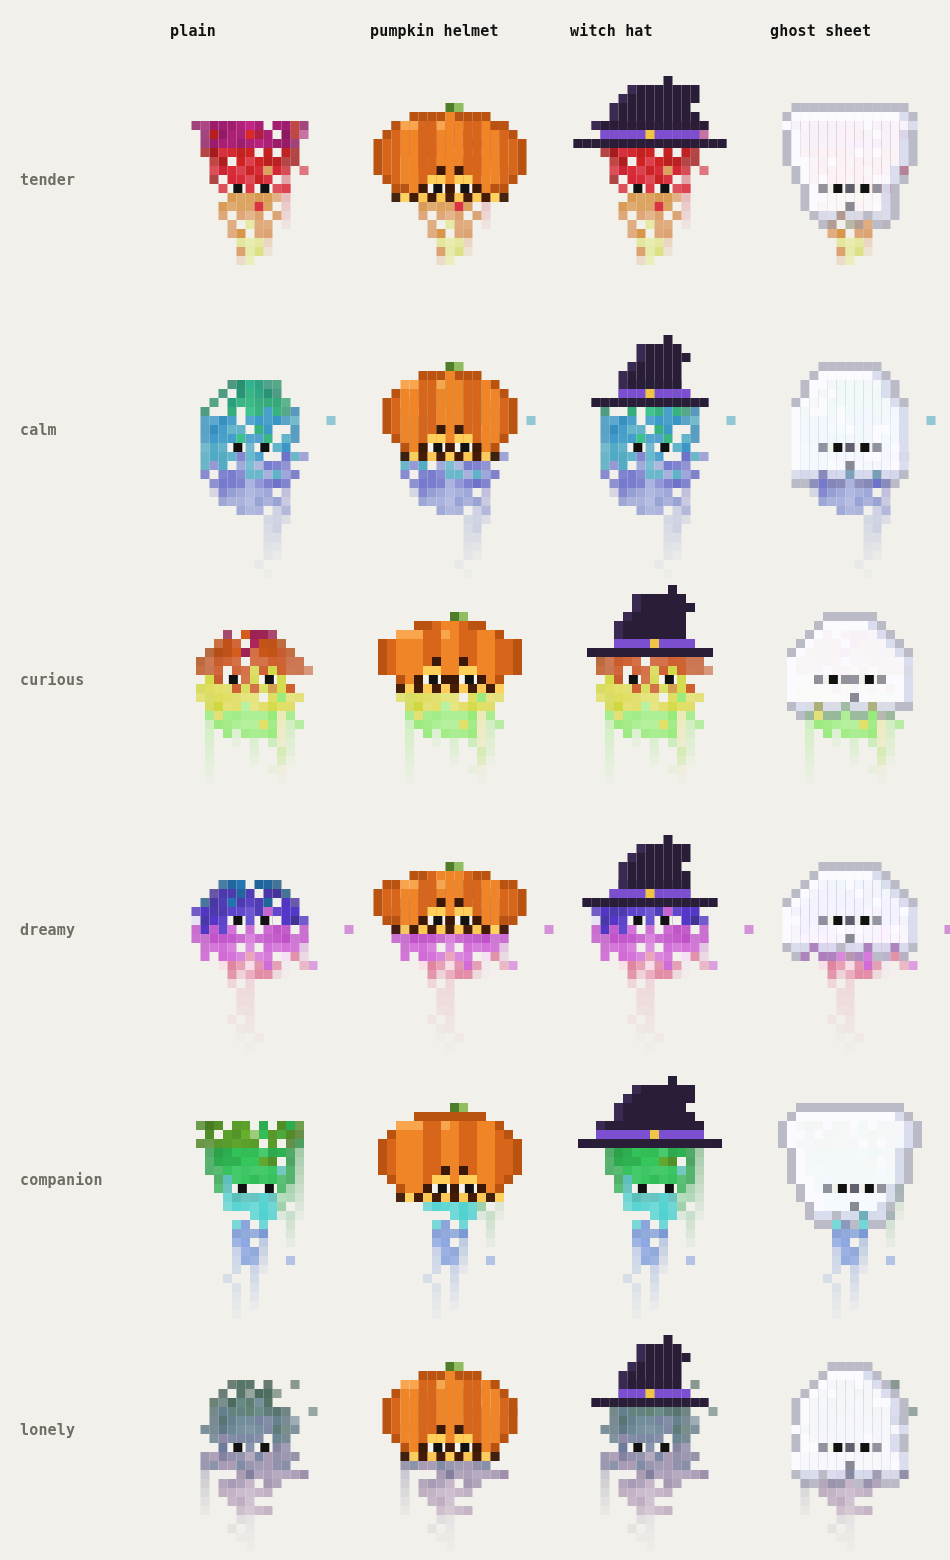
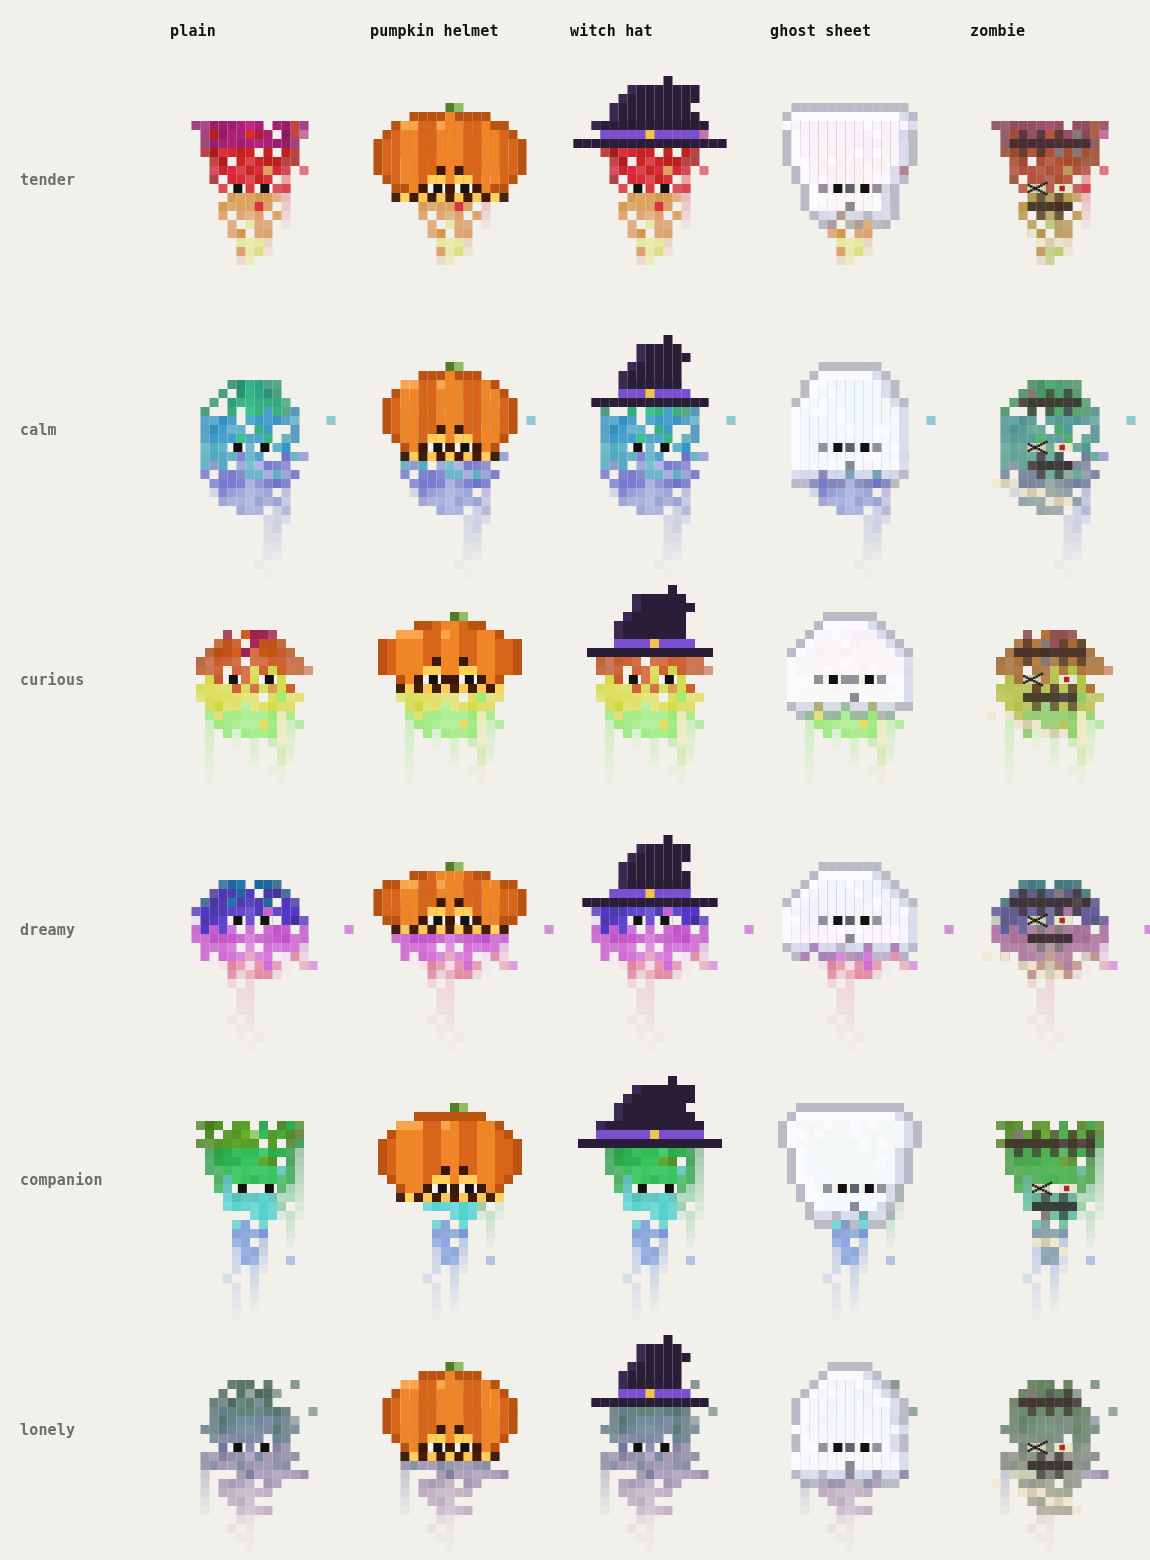
halloween: zombie costume (green skin, stitched scar, sewn eye, bandage) + zombie spells
Claude-Session: https://claude.ai/code/session_01F351BE8WNbsDJxZJegnrAN

diff --git a/src/core/halloween.ts b/src/core/halloween.ts
@@ -9,8 +9,8 @@
  */
 import type { MosaicSpec } from './mosaic';
 
-export type Costume = 'pumpkin' | 'witch' | 'ghost';
-export const COSTUMES: Costume[] = ['pumpkin', 'witch', 'ghost'];
+export type Costume = 'pumpkin' | 'witch' | 'ghost' | 'zombie';
+export const COSTUMES: Costume[] = ['pumpkin', 'witch', 'ghost', 'zombie'];
 
 /** rows a costume may reach above the spore's own grid (witch hat tip). */
 export const COSTUME_HEADROOM = 9;
@@ -41,6 +41,7 @@ const SPELLS: Array<[Costume, RegExp]> = [
   ['pumpkin', /pumpkin|jack[- ]?o[- ]?lantern|halloween|trick or treat|南瓜|万圣/i],
   ['ghost', /ghost|\bboo+\b|spook|haunt|鬼|幽灵|幽靈/i],
   ['witch', /witch|wizard|spell|cauldron|巫|魔女|女巫/i],
+  ['zombie', /zombie|undead|brains?\b|walking dead|僵尸|丧尸|殭屍|喪屍/i],
 ];
 /** The costume a whispered sentence asks for (only while the egg is on). */
 export function spellCostume(text: string | undefined | null): Costume | null {
@@ -217,6 +218,46 @@ export function drawCostume(g: G, spec: MosaicSpec, ox: number, oy: number, cell
       px(e0 - 1, er, '#2c2d3e', 0.5); px(e0 + 2, er, '#2c2d3e', 0.5);
     }
     px(Math.round(cx), er + 2, '#2c2d3e', 0.55);                      // tiny "o" mouth
+  } else if (kind === 'zombie') {
+    // undead: sickly green skin, a stitched scar across the cap, one eye
+    // sewn shut, a stitched grin and a loose bandage across the body
+    for (const c of spec.cells) px(c.col, c.row, '#7f9b4e', 0.38 * c.alpha);
+    const sy = Math.min(er - 2, h.top + 2);
+    let sl = spec.cols, sr = -1;
+    for (let c = 0; c < spec.cols; c++) if (spec.mask[sy * spec.cols + c]) { sl = Math.min(sl, c); sr = Math.max(sr, c); }
+    for (let x = sl + 1; x < sr; x++) {
+      px(x, sy, '#3b2a2a', 0.85);                                   // scar
+      if ((x - sl) % 2 === 0) { px(x, sy - 1, '#3b2a2a', 0.6); px(x, sy + 1, '#3b2a2a', 0.6); }
+    }
+    // left eye sewn into an X, right eye bloodshot
+    const L = spec.eyes.L0;
+    px(L, er, '#cfd6b4'); px(L + 1, er, '#cfd6b4');
+    g.globalAlpha = 1; g.fillStyle = '#2b1f1f';
+    const ex = ox + L * cell, ey = oy + er * cell, lw = Math.max(1, cell * 0.28);
+    for (let i = 0; i < 2 * cell; i += lw) {
+      g.fillRect(ex + i, ey + (i / 2), lw, lw);
+      g.fillRect(ex + i, ey + cell - lw - (i / 2), lw, lw);
+    }
+    const R = spec.eyes.R0;
+    px(R, er, '#e9e6cf'); px(R + 1, er, '#e9e6cf');
+    g.globalAlpha = 1; g.fillStyle = '#b3261e';
+    g.fillRect(ox + (R + 0.55) * cell, oy + (er + 0.2) * cell, cell * 0.6, cell * 0.6);
+    // stitched grin
+    const my = er + 2;
+    if (my < spec.rows) {
+      for (let x = L; x <= R + 1; x++) {
+        if (!spec.mask[my * spec.cols + x]) continue;
+        px(x, my, '#2b1f1f', 0.8);
+        if ((x - L) % 2 === 1) { px(x, my - 1, '#2b1f1f', 0.55); px(x, my + 1, '#2b1f1f', 0.55); }
+      }
+    }
+    // a loose bandage wrapped diagonally across the lower body
+    for (let k = 0; k < spec.cols + 4; k++) {
+      const x = k - 1, y = er + 4 + Math.floor(k / 3);
+      if (y >= spec.rows) break;
+      if (!(spec.mask[y * spec.cols + x] || spec.mask[y * spec.cols + x - 1])) continue;
+      px(x, y, k % 3 === 1 ? '#d8cdb0' : '#efe7d2', 0.95);
+    }
   }
   g.restore();
 }

diff --git a/src/components/CostumeSheet.tsx b/src/components/CostumeSheet.tsx
@@ -13,7 +13,7 @@ import type { CharId } from '../data/characters';
 const FAMILY_HUE: Record<number, number> = { 0: 24, 1: 205, 2: 32, 3: 268, 4: 158, 5: 222 };
 const FAMILY_NAME = ['tender', 'calm', 'curious', 'dreamy', 'companion', 'lonely'];
 const LABEL: Record<Costume | 'plain', string> = {
-  plain: 'plain', pumpkin: 'pumpkin helmet', witch: 'witch hat', ghost: 'ghost sheet',
+  plain: 'plain', pumpkin: 'pumpkin helmet', witch: 'witch hat', ghost: 'ghost sheet', zombie: 'zombie',
 };
 
 function spec(id: string, charId: number, k: number) {

diff --git a/src/components/LandingPoster.tsx b/src/components/LandingPoster.tsx
@@ -77,7 +77,7 @@ export function LandingPoster({ population, onEnter }: Props) {
         MYCELIUM FIELD
         <div className="landing-date">whisper a sentence<br />→ grow a specimen</div>
         {halloweenActive() && (
-          <div className="landing-date landing-hw">until mid-November, whisper a pumpkin,<br />a ghost or a witch…</div>
+          <div className="landing-date landing-hw">until mid-November, whisper a pumpkin,<br />a ghost, a witch or a zombie…</div>
         )}
       </motion.div>
 

diff --git a/src/core/share.ts b/src/core/share.ts
@@ -58,7 +58,7 @@ export function decodeCreature(token: string): FieldCreature | null {
       rationale: p.r,
       bornAt: p.b,
       text: p.t,
-      costume: p.k === 'pumpkin' || p.k === 'witch' || p.k === 'ghost' ? p.k : undefined,
+      costume: p.k === 'pumpkin' || p.k === 'witch' || p.k === 'ghost' || p.k === 'zombie' ? p.k : undefined,
     };
   } catch {
     return null;
